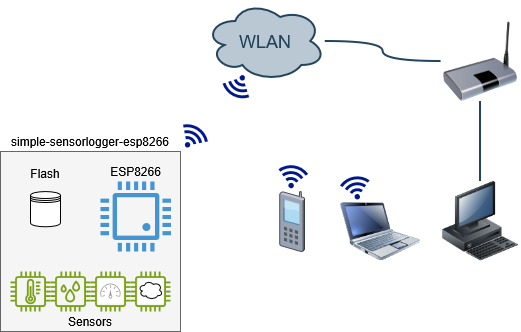
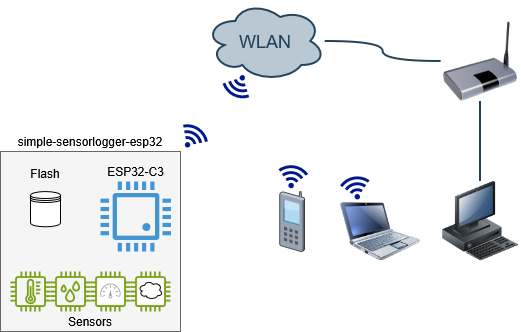
update doku

Changed region(s): [[0.0, 0.3916, 0.3378, 0.4518], [0.1843, 0.4819, 0.3378, 0.5422]]

diff --git a/README.md b/README.md
@@ -27,14 +27,31 @@ The sensors to be used is not yet defined
 ## Software
 This project is still under construction. At the moment only a random number is logged as a temperature value.
 
-### Problems with Async webserver: ESP core 3.x.x is not compatible with the libraries. Had also problem after altering the library:
+### Log File Handling
+Sensor data is stored in rotating log files.
+Each log file has a fixed maximum chunk size of 32 kB.
 
-Altered lines in `C:\Users\<user>\Documents\Arduino\libraries\ESPAsyncWebServer\src\WebAuthentication.cpp` Line 74 and following:
-- `mbedtls_md5_starts_ret` with `mbedtls_md5_starts`
-- `mbedtls_md5_update_ret` with `mbedtls_md5_update`
-- `mbedtls_md5_finish_ret` with `mbedtls_md5_finish`
+New sensor entries are appended to `log_0.csv`.
+Once this file reaches the maximum chunk size, a log rotation is triggered:
 
-In files `AsyncEventSource.cpp` and `AsyncWebSocket.cpp` replace `ets_printf` with `printf`.
+- All existing log files are renamed with an incremented index
+- The oldest log chunk (highest index) is deleted
+- A new `log_0.csv` is created for continued logging
+
+This mechanism ensures constant storage usage while preserving the most recent data. By rotating log files, write operations are distributed across different flash sectors rather than continuously rewriting the same memory area. This reduces flash wear and increases long-term storage reliability.
+
+<p align="center"><img src="doc/log_rotation.png" alt="Log rotation"/><br>log rotation</p>
+
+### Web Integration
+For seamless integration into the web interface, the web server dynamically concatenates all log files and streams them as a single virtual file named `data.csv`.
+
+This streamed file:
+- can be processed directly in JavaScript for visualization
+- can be downloaded for external analysis
+
+The physical log files remain separate on the device; data.csv is generated on-the-fly during the request.
+
+<p align="center"><img src="doc/log_writing_streaming.png" alt="Log writing and streaming"/><br>log writing and streaming</p>
 
 ## Installation
 To program the ESP32 for this project you need the following SW and additional libraries and packages:
@@ -43,6 +60,9 @@ To program the ESP32 for this project you need the following SW and additional l
 - ESP Async TCP (2.0.0) by ESP32Async
 - Board support package `esp32` by Espressif Systems (V3.3.6)
 - LittleFS_esp32 by lorol (1.0.6)
+
+Note:
+*Problems may occur with Async webserver if the wrong libraries are used: ESP core 3.x.x is not compatible with the libraries.*
 
 
 - LittleFS uploader tool [arduino-littlefs-upload](https://github.com/earlephilhower/arduino-littlefs-upload?tab=readme-ov-file):
@@ -68,13 +88,8 @@ Download of 1.5MB data.csv:
 
 ```
 curl -o NUL http://10.53.182.228/data.csv -w "Total time: %{time_total} seconds\n"
-  % Total    % Received % Xferd  Average Speed   Time    Time     Time  Current
-                                 Dload  Upload   Total   Spent    Left  Speed
-100 1495k    0 1495k    0     0   141k      0 --:--:--  0:00:10 --:--:--  175k
-Total time: 10.552708 seconds
 ```
-So **~10.5s** for 1.5MB
-But the processing of the data and building of graph in the HTML-page takes some more time. So the load time on my machine is about **14s**.
+It takes **~10.5s** for 1.5MB. But the processing of the data and building of graph in the HTML-page takes some more time. So the load time on my machine is about **14s**.
 
 ## Acknowledgements
 The idea of this project is based on "Examples/16. Data logging/A-Temperature_logger" of the (https://github.com/tttapa/ESP8266/tree/master) repository. The sensor sampling code and HTML code have been mostly changed and also the chart library has been replaced with chart.js. But that's where the idea and has come from.
